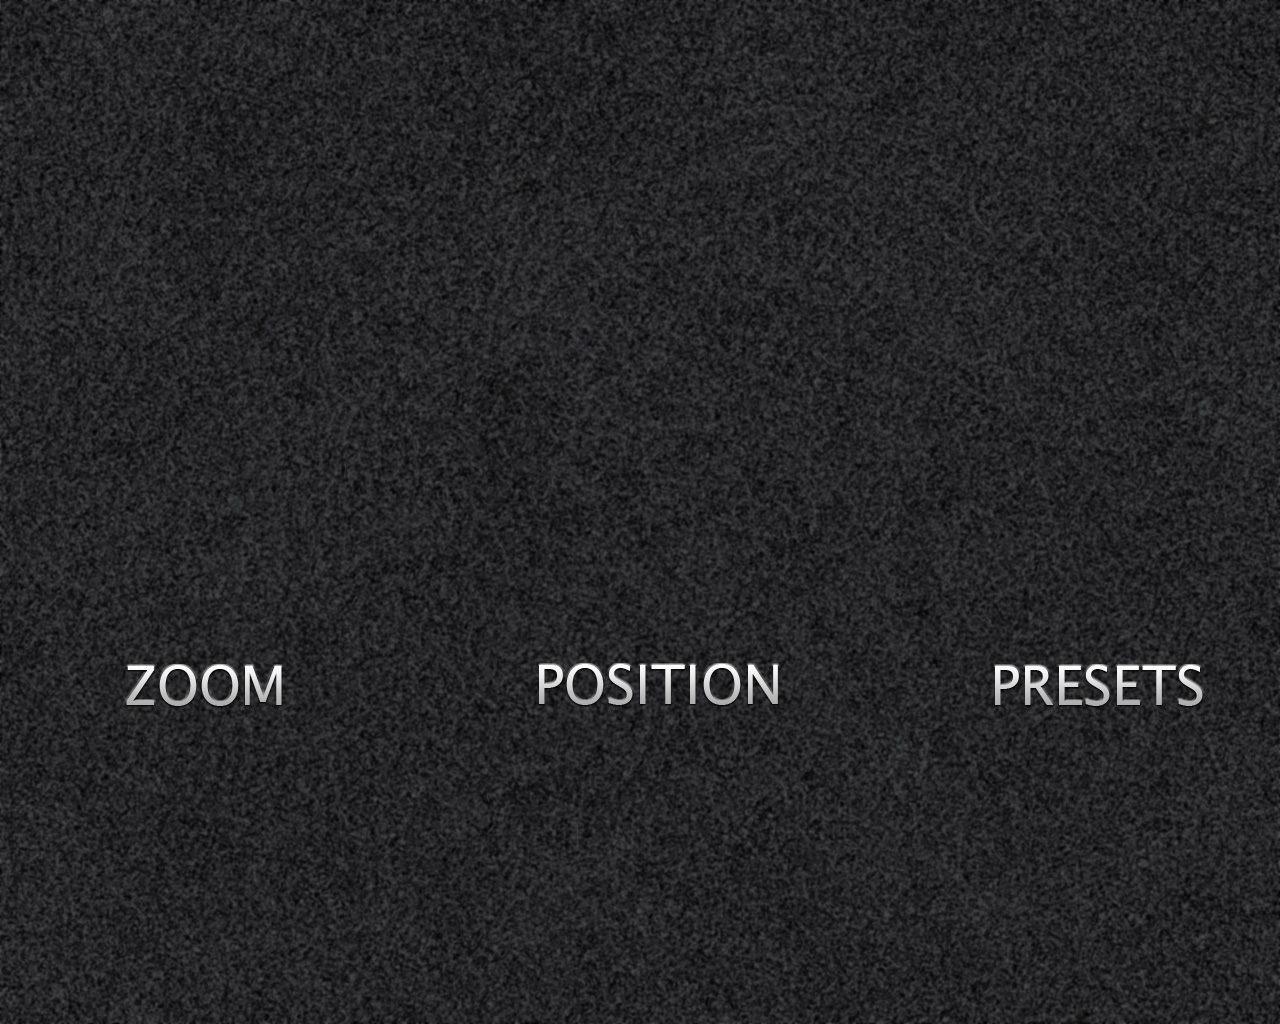
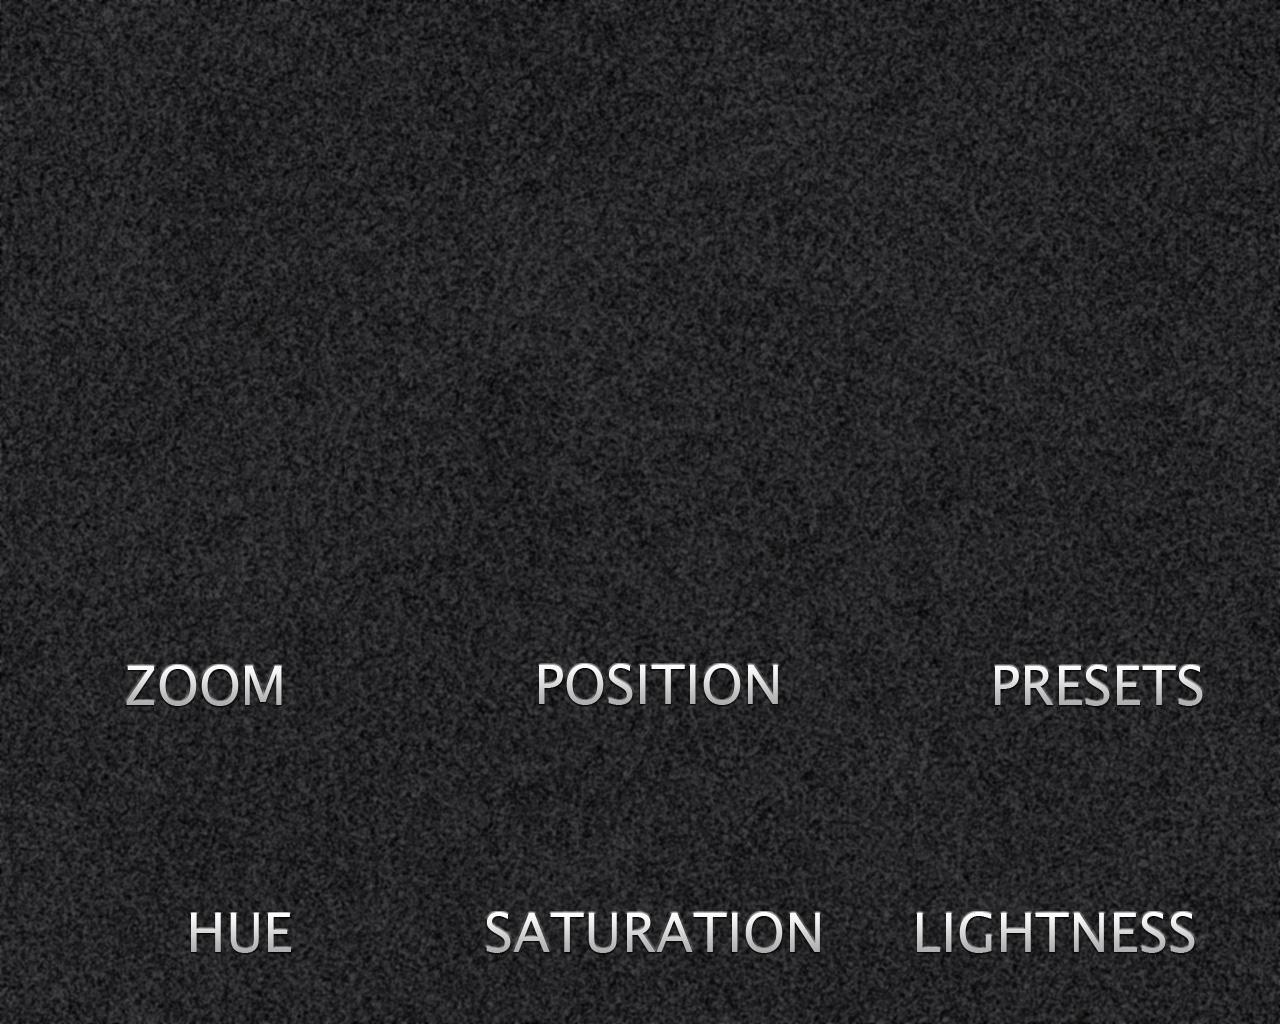
HSL styling complete.

Changed region(s): [[0.375, 0.875, 0.6562, 0.9375], [0.7188, 0.875, 0.9375, 0.9375], [0.125, 0.875, 0.25, 0.9375]]

diff --git a/view/index.html b/view/index.html
@@ -111,11 +111,25 @@
 
   #hsl{
     position:absolute;
-    left: 100px;
-    top: 770px;
+    left: 80px;
+    top: 760px;
+    width: 1130px;
+    height: 155px;
+    background-image: url(images/hsl.png), url(images/hsl.png), url(images/hsl.png);
+    background-position: left center, center center, right center;
+    background-repeat: no-repeat;
   }
   
-  
+  #hsl .scale{
+    margin: 33px 55px;
+    border-top: 2px solid #333;
+    border-left:  2px solid #999;
+    border-right: 2px solid #999;
+    border-bottom: 2px solid #ccc;
+    border-radius: 10px;
+  }
+
+
 </style>
 
 </head>
@@ -265,6 +279,10 @@
     $hsl.hslLiteColorPicker({onChange: send_hsl, hsl:[360, 100, 100]});
 
     // styling hsl
+    $hsl.find('.scale').css({position: 'absolute', height: '50px'});
+    $hsl.find('.scale.s').css({left: '50%', marginLeft: '-100px' });
+    $hsl.find('.scale.l').css({right: '0'});
+    
     
   </script>
 </body>
